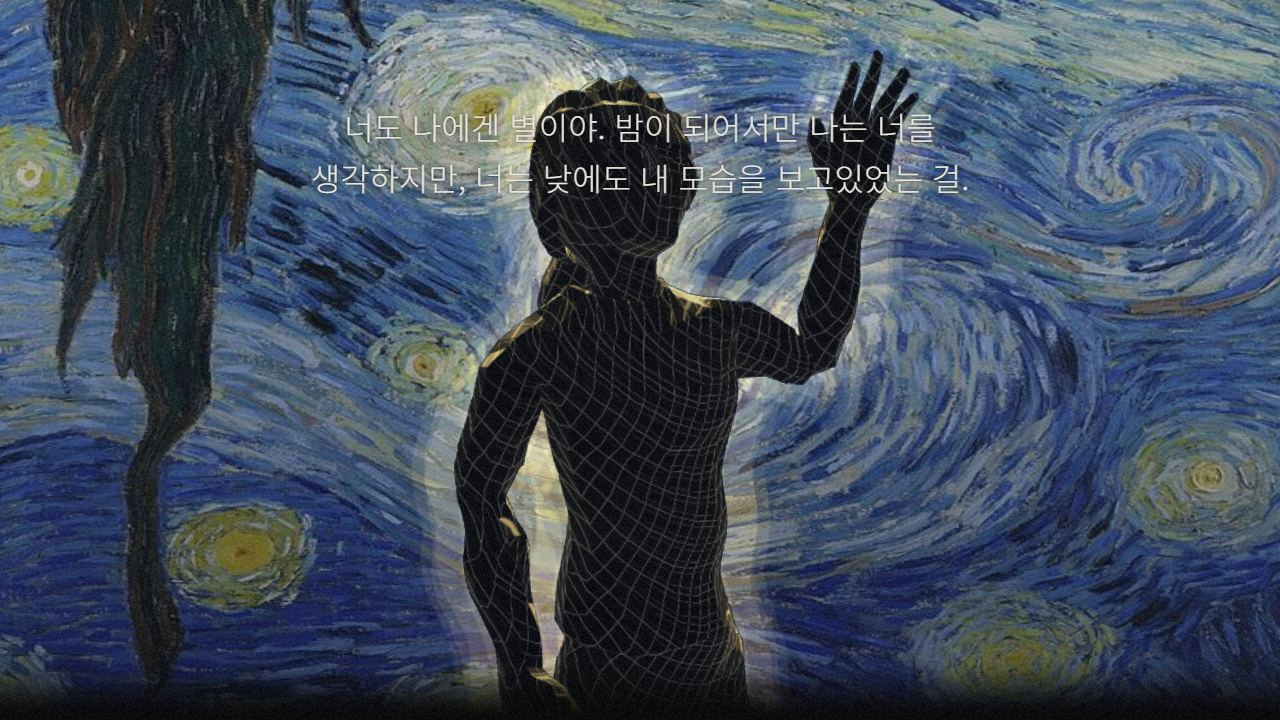
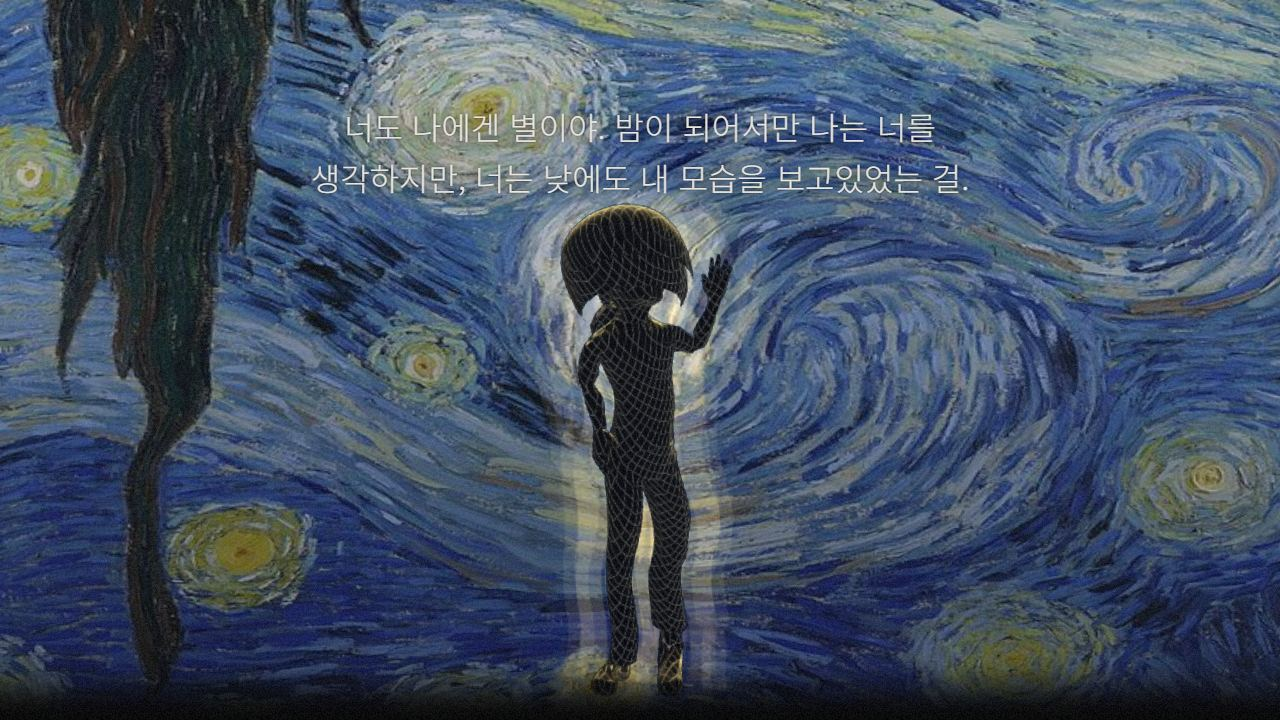
Water child: smaller (1.0 m), bigger head, bowl cut, shorter and thinner arms; framed small below the caption
Clip sampling skips scale tracks so the head and arm sizes hold; the hair is sized from the model's crown when there is no head-top bone.

Claude-Session: https://claude.ai/code/session_019pff81V3KnfQ8avbBjw924

Changed region(s): [[0.3125, 0.0611, 0.75, 0.9778]]

diff --git a/docs/index.html b/docs/index.html
@@ -1119,16 +1119,22 @@ var LOOK = {
     wave: { clip: "[|]Wave$|^Wave$", up: 0.67, loop: 0.41, still: 0.83, speed: 0.75, out: 0.1, lift: 0.05 },
     hair: false,
     // 머리카락이 없는 마네킹 모델이면 true: 머리뼈에 머리카락을 붙임
+    kidHair: true,
+    // 물속 아이에게만 바가지 머리(이마까지 덮는 둥근 머리)를 씌움
+    kidHairFit: { size: 0.64, lift: 0.45 },
+    // 바가지 머리 크기·높이 (머리뼈~정수리 거리에 대한 비율, ?hairdebug 로 빨갛게 확인)
+    childArmScale: 0.78,
+    // 아이 팔 길이·굵기 (1 = 모델 그대로, 작을수록 짧고 가늘게)
     hairFit: { size: 0.66, lift: 0.62 },
     // 머리 크기에 대한 머리카락 반지름·높이 비율 (주소에 ?hairdebug 를 붙이면 빨갛게 보임)
     adultHeight: 1.72,
     // 어른 키(m)
-    childHeight: 1.2,
+    childHeight: 1,
     // 아이 키(m)
-    childHeadScale: 1.12,
+    childHeadScale: 1.4,
     // 아이 머리를 몸에 비해 크게
     // 물속 인물 화면: 머리에서 drop(m) 아래를 가운데로, 위아래 half(m) 만큼, tilt(라디안) 위에서 내려다봄
-    waterFrame: { adult: { drop: 0.13, half: 0.36, tilt: 0.35 }, child: { drop: 0.1, half: 0.36, tilt: 0.2 } }
+    waterFrame: { adult: { drop: 0.13, half: 0.36, tilt: 0.35 }, child: { drop: 0.12, half: 0.8, tilt: 0.2 } }
   },
   // 물에 비친 아이
   childGlow: 0.85,
@@ -4883,7 +4889,7 @@ function bindClip(body, clip) {
   return clip.tracks.flatMap((track) => {
     const dot = track.name.lastIndexOf(".");
     const obj = body.getObjectByName(track.name.slice(0, dot)), prop = track.name.slice(dot + 1);
-    return obj && obj[prop] ? [{ obj, prop, at: track.createInterpolant() }] : [];
+    return obj && obj[prop] && prop !== "scale" ? [{ obj, prop, at: track.createInterpolant() }] : [];
   });
 }
 function setClipPose(bound, time) {
@@ -4912,20 +4918,25 @@ function makePerson({ height, mat, headScale = 1, kid = false }) {
   body.scale.setScalar(s);
   body.position.y = -box2.min.y * s;
   const bones = findBones(body);
-  if (LOOK.people.hair && bones.head) addHair(bones.head, mat, headScale !== 1);
+  root.updateMatrixWorld(true);
+  if ((LOOK.people.hair || kid && LOOK.people.kidHair) && bones.head) addHair(bones.head, mat, kid || headScale !== 1, height, kid ? LOOK.people.kidHairFit : LOOK.people.hairFit);
   if (headScale !== 1 && bones.head) bones.head.scale.setScalar(headScale);
+  const arm = kid ? LOOK.people.childArmScale ?? 1 : 1;
+  if (arm !== 1) {
+    for (const b of [bones.upperArmL, bones.upperArmR]) if (b) b.scale.setScalar(arm);
+  }
   root.updateMatrixWorld(true);
   const y = (b) => b ? b.getWorldPosition(new THREE8.Vector3()).y : 0;
   const tpose = Math.abs(y(bones.handL) - y(bones.upperArmL)) < 0.1 * (height / 1.7);
   return { root, body, bones, base: snapshot(bones), clips: src.animations, tpose, idlePose };
 }
-function addHair(head, mat, child2) {
+function addHair(head, mat, child2, crownY, fit = LOOK.people.hairFit) {
   head.updateMatrixWorld(true);
   const hp = head.getWorldPosition(new THREE8.Vector3());
   const top = head.children.find((c) => /top/i.test(c.name));
-  const h = top ? top.getWorldPosition(new THREE8.Vector3()).distanceTo(hp) : 0.2;
+  const h = top ? top.getWorldPosition(new THREE8.Vector3()).distanceTo(hp) : crownY != null ? crownY - hp.y : 0.2;
   const ws = head.getWorldScale(new THREE8.Vector3()).x;
-  const { size: size2, lift } = LOOK.people.hairFit;
+  const { size: size2, lift } = fit;
   const r = h * size2 / ws;
   if (new URLSearchParams(location.search).has("hairdebug")) mat = new THREE8.MeshBasicMaterial({ color: 16711680 });
   const hair = new THREE8.Group();

diff --git a/src/js/world/people.js b/src/js/world/people.js
@@ -31,7 +31,8 @@ function bindClip(body, clip) {
   return clip.tracks.flatMap((track) => {
     const dot = track.name.lastIndexOf(".");
     const obj = body.getObjectByName(track.name.slice(0, dot)), prop = track.name.slice(dot + 1);
-    return obj && obj[prop] ? [{ obj, prop, at: track.createInterpolant() }] : [];
+    // scale tracks are left out: the head and arm sizes set in makePerson must survive every clip
+    return obj && obj[prop] && prop !== "scale" ? [{ obj, prop, at: track.createInterpolant() }] : [];
   });
 }
 function setClipPose(bound, time) {
@@ -57,8 +58,13 @@ export function makePerson({ height, mat, headScale = 1, kid = false }) {
   body.scale.setScalar(s);
   body.position.y = -box.min.y * s;
   const bones = findBones(body);
-  if (LOOK.people.hair && bones.head) addHair(bones.head, mat, headScale !== 1);
+  root.updateMatrixWorld(true);
+  // the crown is the model's top (height): its distance from the head bone sizes the hair when there is no head-top bone
+  if ((LOOK.people.hair || (kid && LOOK.people.kidHair)) && bones.head) addHair(bones.head, mat, kid || headScale !== 1, height, kid ? LOOK.people.kidHairFit : LOOK.people.hairFit);
   if (headScale !== 1 && bones.head) bones.head.scale.setScalar(headScale);
+  // a child's arms are shorter and thinner: scaling the upper arm shrinks the whole arm, hand included
+  const arm = kid ? LOOK.people.childArmScale ?? 1 : 1;
+  if (arm !== 1) for (const b of [bones.upperArmL, bones.upperArmR]) if (b) b.scale.setScalar(arm);
   root.updateMatrixWorld(true);
   // a T-pose (hands level with the shoulders) needs its arms brought down; an idle pose already has them down
   const y = (b) => (b ? b.getWorldPosition(new THREE.Vector3()).y : 0);
@@ -68,13 +74,13 @@ export function makePerson({ height, mat, headScale = 1, kid = false }) {
 
 // A bald mannequin reads as a doll; a cap of hair on the head bone reads as a person.
 // The head bone's +y runs up through the skull (glTF bones point along +y).
-function addHair(head, mat, child) {
+function addHair(head, mat, child, crownY, fit = LOOK.people.hairFit) {
   head.updateMatrixWorld(true);
   const hp = head.getWorldPosition(new THREE.Vector3());
   const top = head.children.find((c) => /top/i.test(c.name));
-  const h = top ? top.getWorldPosition(new THREE.Vector3()).distanceTo(hp) : 0.2;
+  const h = top ? top.getWorldPosition(new THREE.Vector3()).distanceTo(hp) : crownY != null ? crownY - hp.y : 0.2;
   const ws = head.getWorldScale(new THREE.Vector3()).x;
-  const { size, lift } = LOOK.people.hairFit;
+  const { size, lift } = fit;
   const r = (h * size) / ws;
   if (new URLSearchParams(location.search).has("hairdebug")) mat = new THREE.MeshBasicMaterial({ color: 0xff0000 });
   const hair = new THREE.Group();

diff --git a/src/js/content/look.js b/src/js/content/look.js
@@ -34,12 +34,15 @@ export const LOOK = {
     // out·lift = 클립보다 손을 옆으로·위로 더 뻗는 거리(m)
     wave: { clip: "[|]Wave$|^Wave$", up: 0.67, loop: 0.41, still: 0.83, speed: 0.75, out: 0.1, lift: 0.05 },
     hair: false, // 머리카락이 없는 마네킹 모델이면 true: 머리뼈에 머리카락을 붙임
+    kidHair: true, // 물속 아이에게만 바가지 머리(이마까지 덮는 둥근 머리)를 씌움
+    kidHairFit: { size: 0.64, lift: 0.45 }, // 바가지 머리 크기·높이 (머리뼈~정수리 거리에 대한 비율, ?hairdebug 로 빨갛게 확인)
+    childArmScale: 0.78, // 아이 팔 길이·굵기 (1 = 모델 그대로, 작을수록 짧고 가늘게)
     hairFit: { size: 0.66, lift: 0.62 }, // 머리 크기에 대한 머리카락 반지름·높이 비율 (주소에 ?hairdebug 를 붙이면 빨갛게 보임)
     adultHeight: 1.72, // 어른 키(m)
-    childHeight: 1.2, // 아이 키(m)
-    childHeadScale: 1.12, // 아이 머리를 몸에 비해 크게
+    childHeight: 1.0, // 아이 키(m)
+    childHeadScale: 1.4, // 아이 머리를 몸에 비해 크게
     // 물속 인물 화면: 머리에서 drop(m) 아래를 가운데로, 위아래 half(m) 만큼, tilt(라디안) 위에서 내려다봄
-    waterFrame: { adult: { drop: 0.13, half: 0.36, tilt: 0.35 }, child: { drop: 0.1, half: 0.36, tilt: 0.2 } },
+    waterFrame: { adult: { drop: 0.13, half: 0.36, tilt: 0.35 }, child: { drop: 0.12, half: 0.8, tilt: 0.2 } },
   },
 
   // 물에 비친 아이
